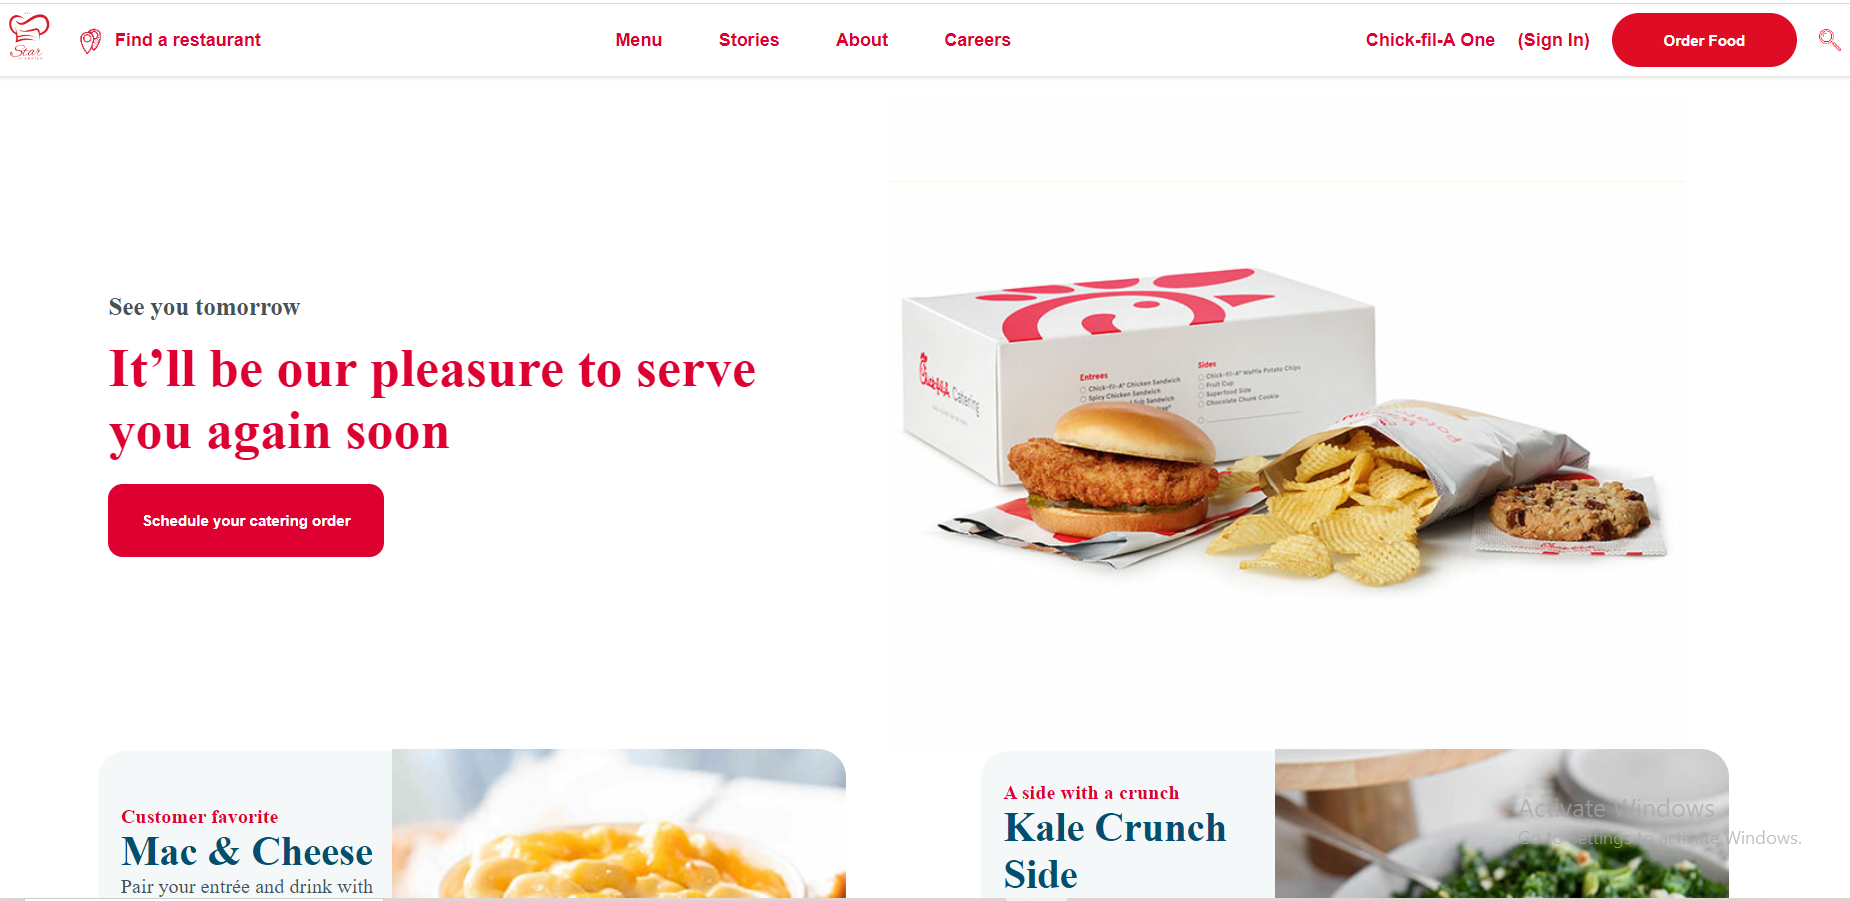
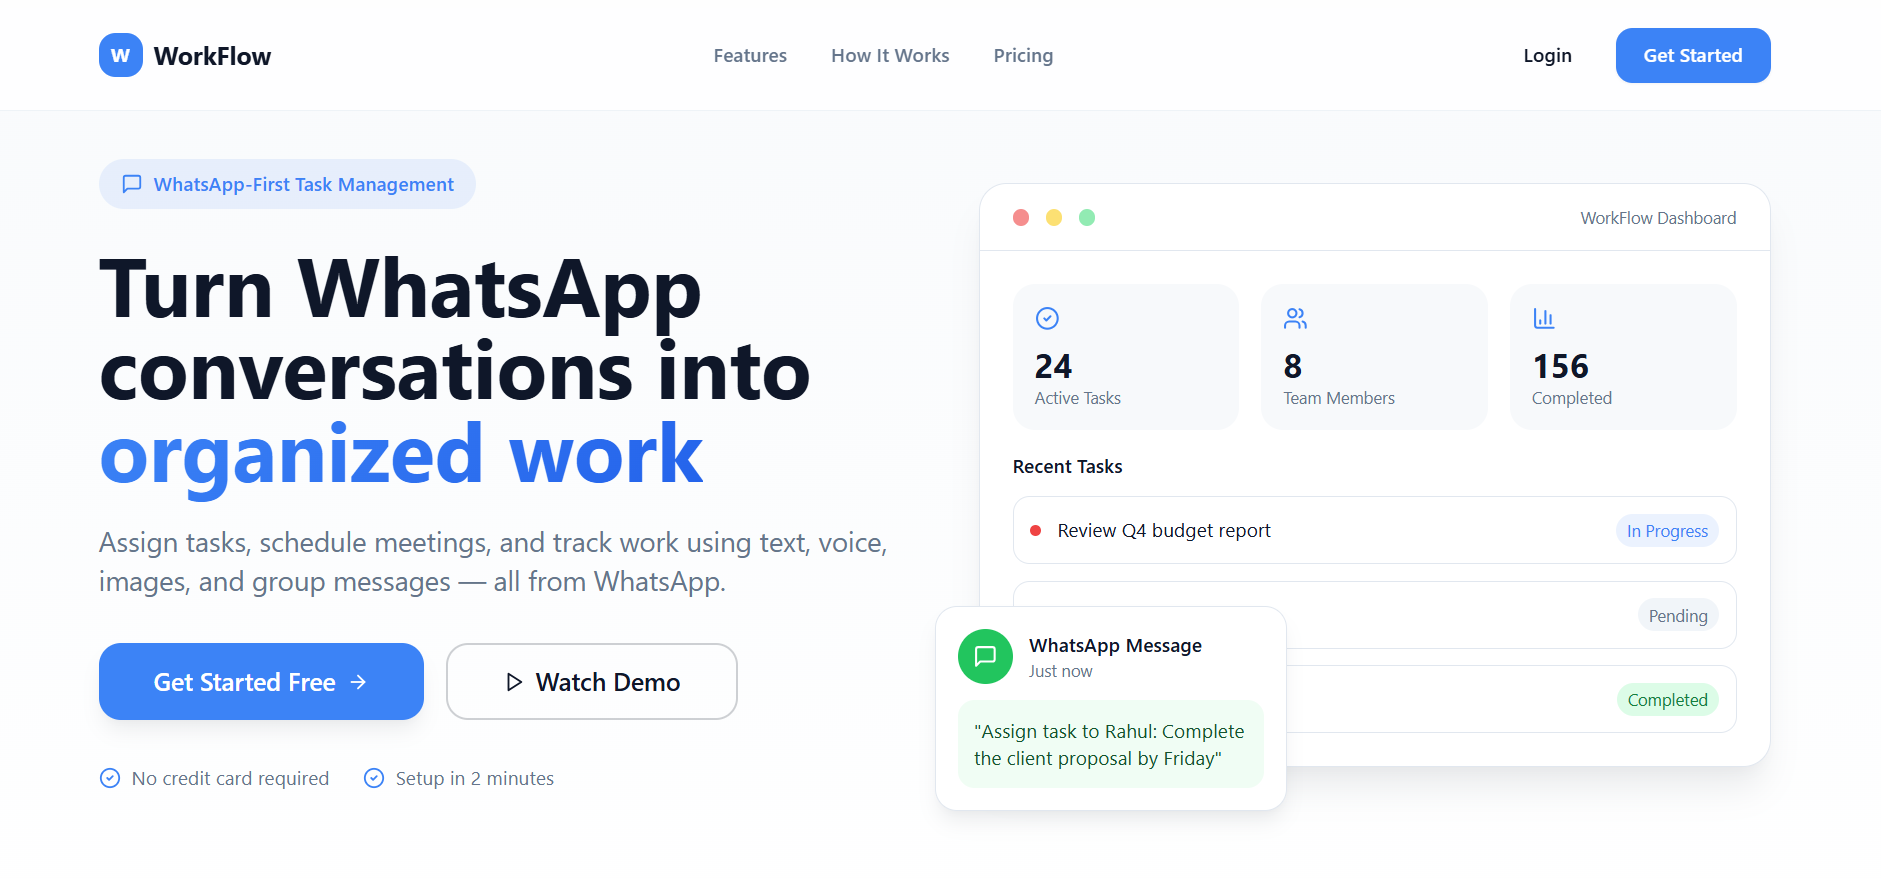
added updated project and experience

diff --git a/src/components/Skills.jsx b/src/components/Skills.jsx
@@ -1,13 +1,25 @@
 import React from "react";
 import {
-  FaCss3Alt,
-  FaJsSquare,
-  FaHtml5,
-  FaReact,
-  FaSass,
-  FaNodeJs,
-  FaDribbble,
-} from "react-icons/fa";
+  SiReact,
+  SiNodedotjs,
+  SiExpress,
+  SiMongodb,
+  SiSupabase,
+  SiTwilio,
+  SiOpenai,
+  SiPostman,
+  SiTypescript,
+  SiChakraui,
+  SiTailwindcss,
+  SiRedux,
+  SiHtml5,
+  SiPuppeteer,
+  SiRailway,
+  SiVercel,
+} from "react-icons/si";
+
+import {FaCss3Alt, FaGitAlt, FaHtml5, FaJs, FaNodeJs, FaReact } from "react-icons/fa"
+
 {
   /* <FaHtml5 style={{ fontSize: "100px" }} />
 <FaJsSquare style={{ fontSize: "100px" }} />
@@ -16,15 +28,15 @@ import {
 const skills = [
   {
     name: "HTML",
-    icon: <FaHtml5 />,
+    icon: <FaHtml5/>,
   },
   {
     name: "CSS",
-    icon: <FaCss3Alt />,
+    icon: <FaCss3Alt/>,
   },
   {
     name: "JS",
-    icon: <FaJsSquare />,
+    icon: <FaJs />,
   },
   {
     name: "REACT",
@@ -32,19 +44,56 @@ const skills = [
   },
   {
     name: "REDUX",
-    icon: <FaHtml5 />,
+    icon: <SiRedux />,
   },
   {
     name: "CHAKRA UI",
-    icon: <FaSass />,
+    icon: <SiChakraui />,
   },
+
+   {
+    name: "TAILWINDCSS",
+    icon: <SiTailwindcss />,
+  },
+
   {
     name: "NODE.JS",
     icon: <FaNodeJs />,
   },
+
+
+   {
+    name: "SUPABASE",
+    icon: <SiSupabase />,
+  },
   {
-    name: "DRIBBLE",
-    icon: <FaDribbble />,
+    name: "MONGODB",
+    icon: <SiMongodb />,
+  },
+
+  {
+    name: "GITHUB",
+    icon: <FaGitAlt />,
+  },
+
+   {
+    name: "TWILIO",
+    icon: <SiTwilio />,
+  },
+
+    {
+    name: "PUPPETEER",
+    icon: <SiPuppeteer />,
+  },
+
+      {
+    name: "RAILWAY",
+    icon: <SiRailway />,
+  },
+
+      {
+    name: "VERCEL",
+    icon: <SiVercel />,
   },
 ];
 

diff --git a/src/components/Project.jsx b/src/components/Project.jsx
@@ -4,53 +4,62 @@ import dressify from "../images/dressify.png";
 import oddgras from "../images/greenscapes.png";
 import brightSight from "../images/brightSight.png";
 
-import { FaCss3Alt, FaJsSquare, FaHtml5, FaReact } from "react-icons/fa";
+import { SiTypescript, SiTwilio, SiOpenai, SiSupabase, SiTailwindcss, SiPuppeteer } from "react-icons/si";
+import { FaCss3Alt, FaJsSquare, FaHtml5, FaNodeJs, FaReact } from "react-icons/fa";
 // https://react-icons.github.io/react-icons/icons?name=fa
 
 let projects = [
   {
-    title: "Star Fishries",
+    title: "WorkFlow",
     img1: abc,
     description:
-      "Star fishries is an online food ordering website where you can order yourself some delicious snacks. We have a wide rane of fast foods ranging from chicken nuggets to wraps, you'll get all of them here.",
+      "A WhatsApp-first workforce management platform that lets businesses manage attendance, communication, and operations without requiring employees to install a separate app. Built with a Node.js/Express backend and Twilio integration, it supports configurable per-organization cron jobs for automated attendance tracking and a RAG-powered AI assistant (over Supabase) that lets employers query their workforce data conversationally.",
     skills: [
       {
-        name: "HTML",
-        icon: <FaHtml5 />,
+        name: "REACT",
+        icon: <FaReact />,
       },
       {
-        name: "CSS",
-        icon: <FaCss3Alt />,
+        name: "NODEJS",
+        icon: <FaNodeJs />,
       },
       {
-        name: "JS",
-        icon: <FaJsSquare />,
+        name: "TWILIO",
+        icon: <SiTwilio />,
+      },
+      {
+        name: "OPENAI",
+        icon: <SiOpenai />,
       },
     ],
-    git: "https://github.com/astik0398/gusty-crow-4734",
-    preview: "https://starfishries.netlify.app/",
+    git: "https://github.com/astik0398/whatsapp-work-hub",
+    preview: "https://whatsapp-work-hub.vercel.app",
   },
   {
-    title: "Dressify",
+    title: "MediBachat",
     img1: dressify,
     description:
-      "Dressify is one-stop destination for fashionable clothing  for men, women and children. Anyone can go through the wide range of products that are available on our website and order the desired one",
+      "MediBachat is a medicine price comparison platform that helps users find the most affordable options for their prescriptions across multiple online pharmacies. Built with a Node.js backend and Puppeteer-based web scraping to aggregate real-time pricing data, the platform is optimized for SEO and monetized through AdSense, helping everyday users save money on essential medication.",
     skills: [
       {
-        name: "HTML",
-        icon: <FaHtml5 />,
+        name: "REACT",
+        icon: <FaReact />,
       },
       {
-        name: "CSS",
-        icon: <FaCss3Alt />,
+        name: "TAILWIND",
+        icon: <SiTailwindcss />,
       },
       {
-        name: "JS",
-        icon: <FaJsSquare />,
+        name: "NODEJS",
+        icon: <FaNodeJs />,
+      },
+      {
+        name: "PUPPETEER",
+        icon: <SiPuppeteer />,
       },
     ],
-    git: "https://github.com/astik0398/ambiguous-oven-8467",
-    preview: "https://dressify-shopping.netlify.app/",
+    git: "https://github.com/astik0398/medsave-india",
+    preview: "https://medibachat.in",
   },
   {
     title: "Green Escapes",

diff --git a/src/components/About.jsx b/src/components/About.jsx
@@ -6,16 +6,19 @@ import React from "react";
 function About() {
   return (
     <div id="about" className="about section">
-      <h1 >About Me</h1>
+      <h1>About Me</h1>
       <div className="about_card">
         {/* <img className="about_img" src={img2} alt="" /> */}
         <p id="user-detail-intro" className="my-details">
-          Experienced Full Stack Web Developer with 1200+ hours of coding
-          experience in the MERN stack. Strong command of CSS and adept at
-          building solo and collaborative projects. Demonstrates excellent
-          technical skills in front-end and back-end development, coupled with
-          effective problem-solving abilities. Ready to deliver impactful web
-          solutions.
+          Full-stack developer with close to two years of experience building
+          production software, most recently at an early-stage startup where I
+          built an AI-powered, WhatsApp-first workforce management platform
+          end-to-end. My core stack is MERN, complemented by Supabase and the
+          Twilio/WhatsApp Business API for building messaging-driven products.
+          Beyond my startup role, I independently designed and shipped a
+          medicine price comparison platform with over 100+ registered users,
+          enabling people to compare medicine prices across multiple platforms
+          and find the best deals.
         </p>
       </div>
     </div>

diff --git a/src/components/Global.scss b/src/components/Global.scss
@@ -152,7 +152,7 @@
     .skills_deta {
       display: grid;
       grid-template-columns: repeat(3, auto);
-      grid-template-columns: repeat(auto-fit, 200px);
+      grid-template-columns: repeat(5, 200px);
       margin: auto;
       max-width: 65%;
       justify-content: center;
@@ -164,7 +164,7 @@
     }
   
     .skills-card {
-      width: 100%;
+      width: 95%;
       text-align: center;
       color: black;
       background-color: rgb(74, 113, 244);
@@ -178,7 +178,7 @@
   
       color: white;
       svg {
-        font-size: 150px;
+        font-size: 120px;
         filter: drop-shadow(2px 4px 6px black);
       }
       p {

diff --git a/src/components/Github.jsx b/src/components/Github.jsx
@@ -29,7 +29,7 @@ export default function Github() {
         <img
           id="github-top-langs"
           // style={{ width: "100%" }}
-          src="https://github-readme-stats.vercel.app/api/top-langs/?username=astik0398&theme=light&hide_border=false&include_all_commits=false&count_private=true&layout=compact"
+          src="https://github-readme-stats.vercel.app/api/top-langs/?username=astik0398&layout=compact&theme=default"
           alt="astik0398"
         />
 